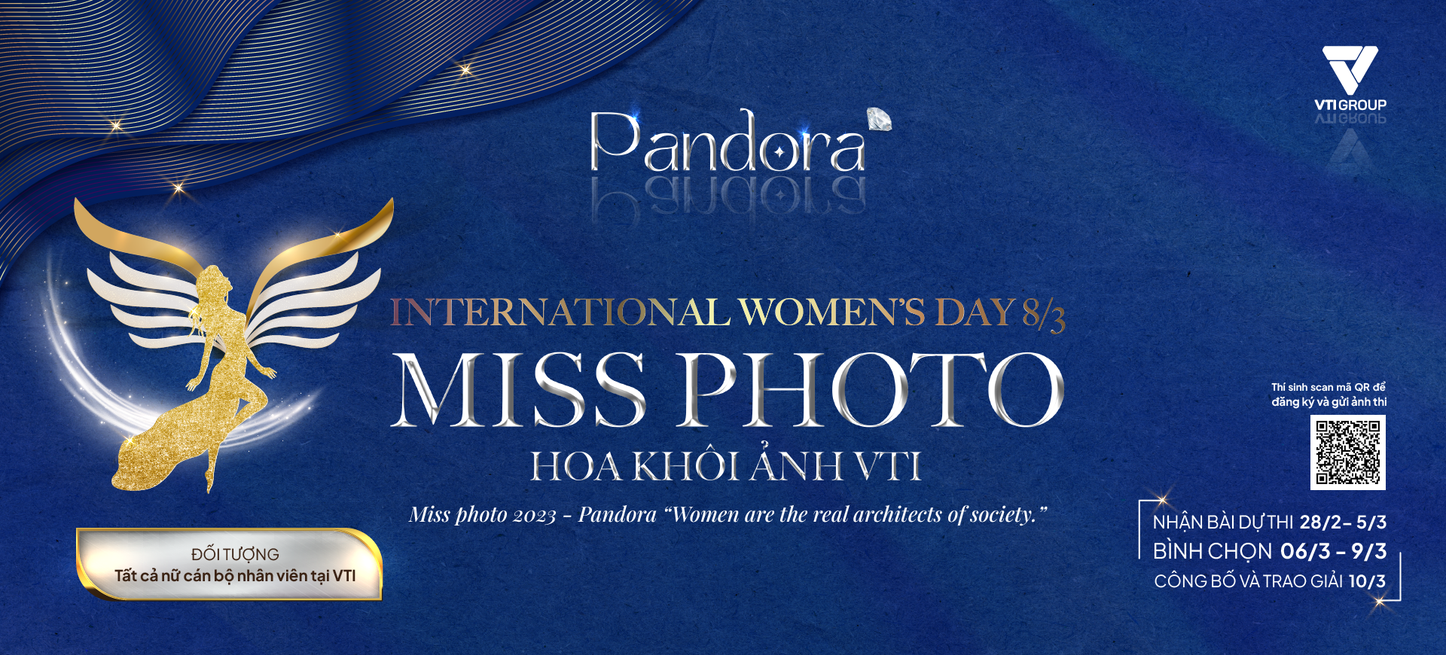
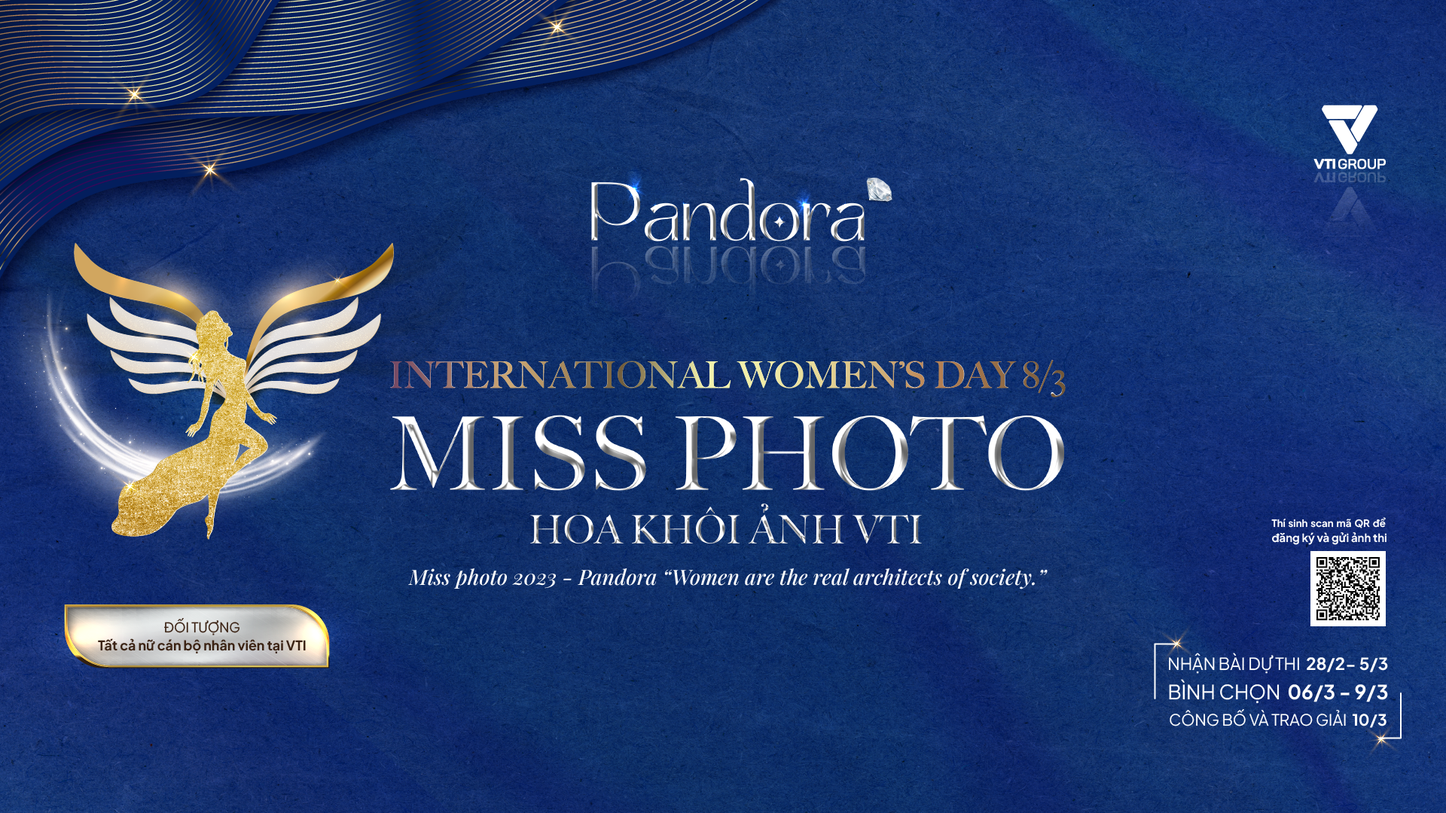
done

diff --git a/src/image/logo.jsx b/src/image/logo.jsx
@@ -3,268 +3,11 @@ import React, { Component } from "react";
 export default class Logo extends Component {
   render() {
     return (
-      <svg
-        version="1.1"
-        id="Layer_1"
-        x="0px"
-        y="0px"
-        width="170pt"
-        height="170pt"
-        viewBox="0 0 648 604"
-        enableBackground="new 0 0 648 604"
-        xmlns="http://www.w3.org/2000/svg"
-      >
-        <defs></defs>
-        <path
-          fill="#0252AD"
-          opacity="1.000000"
-          stroke="none"
-          d="
-      M382.493835,148.509613 
-          C373.827240,163.520538 365.250671,178.162323 356.947388,192.957520 
-          C354.549286,197.230576 351.602234,198.989227 346.581268,198.975555 
-          C290.421722,198.822723 234.261475,198.837479 178.101791,198.970642 
-          C173.339890,198.981934 170.456253,197.406647 168.107285,193.243576 
-          C158.135941,175.571518 147.752060,158.131012 137.905457,140.391342 
-          C136.646744,138.123642 136.709106,134.167282 137.806564,131.737000 
-          C140.463669,125.852989 144.150284,120.439911 147.308990,114.774048 
-          C149.102432,111.557114 151.521713,110.106537 155.357620,110.109756 
-          C234.181458,110.175880 313.005371,110.128479 391.829285,110.144836 
-          C399.370697,110.146400 401.879242,114.674522 398.100525,121.361931 
-          C393.025757,130.343063 387.831085,139.256424 382.493835,148.509613 
-      z"
-        ></path>
-        <path
-          fill="#0591E7"
-          opacity="1.000000"
-          stroke="none"
-          d="
-      M500.457581,133.775604 
-          C500.047577,136.444550 499.953613,139.056717 498.801941,141.061157 
-          C470.028168,191.141022 441.145599,241.158340 412.275696,291.182953 
-          C402.042969,308.913879 391.831604,326.657379 381.532959,344.350037 
-          C377.131165,351.912170 372.281586,351.923431 367.961823,344.454834 
-          C354.129089,320.539062 340.369476,296.580872 326.492920,272.690613 
-          C324.520569,269.295044 324.453339,266.258850 326.412048,262.865753 
-          C354.867737,213.571854 383.297272,164.262787 411.650177,114.909744 
-          C413.633362,111.457657 416.163605,110.071449 420.110504,110.094986 
-          C440.434387,110.216164 460.759888,110.224754 481.083679,110.096611 
-          C485.242401,110.070381 487.954529,111.524048 489.919556,115.205757 
-          C493.209412,121.369865 496.810608,127.367798 500.457581,133.775604 
-      z"
-        ></path>
-        <path
-          fill="#026BC6"
-          opacity="1.000000"
-          stroke="none"
-          d="
-      M266.846558,364.162720 
-          C238.797714,315.584412 210.924149,267.327728 183.073029,219.058090 
-          C179.450180,212.779221 182.047211,208.139359 189.247650,208.127762 
-          C217.234314,208.082687 245.221756,208.206207 273.207153,208.012604 
-          C277.879578,207.980270 280.067261,210.345673 282.087646,213.862762 
-          C299.820923,244.733032 317.601135,275.576324 335.387543,306.416046 
-          C345.360229,323.707703 355.222382,341.066162 365.456238,358.202240 
-          C368.464111,363.238892 368.649139,367.314575 365.579254,372.444183 
-          C355.756348,388.857483 346.301331,405.493530 336.887024,422.146881 
-          C334.586578,426.216248 331.806488,428.271576 326.930481,427.953613 
-          C321.124512,427.574982 315.267120,427.674622 309.447266,427.923706 
-          C305.266815,428.102631 302.679260,426.509247 300.615509,422.879120 
-          C289.517334,403.357483 278.242584,383.936249 266.846558,364.162720 
-      z"
-        ></path>
-        <path
-          fill="#0F93E4"
-          opacity="1.000000"
-          stroke="none"
-          d="
-      M359.553833,488.226929 
-          C356.791840,491.302948 354.220551,494.039520 352.280579,496.104218 
-          C355.894714,505.247498 359.614990,514.659363 363.347412,524.101868 
-          C354.562500,527.171082 352.066864,525.999756 349.702423,518.252319 
-          C344.096710,499.884430 344.096680,499.882629 324.877808,500.138031 
-          C323.742920,500.153107 322.608917,500.232971 320.853210,500.309906 
-          C320.853210,508.620972 320.853210,516.677979 320.853210,524.998108 
-          C316.967163,524.998108 313.718536,524.998108 310.313538,524.998108 
-          C310.313538,503.444031 310.313538,482.194580 310.313538,460.951813 
-          C323.051727,460.951813 335.532562,460.329346 347.913025,461.175446 
-          C355.877808,461.719788 360.504272,467.978943 360.688477,475.999817 
-          C360.779266,479.953064 360.084076,483.924347 359.553833,488.226929 
-      M343.555908,490.635834 
-          C349.408813,488.026184 352.431030,478.196686 348.807587,472.931549 
-          C347.947296,471.681458 346.238403,470.274933 344.878326,470.231232 
-          C336.956757,469.976440 329.022797,470.106415 321.055847,470.106415 
-          C321.055847,477.249054 321.055847,483.835022 321.055847,490.814697 
-          C328.471741,490.814697 335.593353,490.814697 343.555908,490.635834 
-      z"
-        ></path>
-        <path
-          fill="#0753AC"
-          opacity="1.000000"
-          stroke="none"
-          d="
-      M133.565079,507.610779 
-          C132.020325,511.163971 130.244751,514.272705 129.382706,517.616882 
-          C128.133362,522.463501 125.171417,523.047974 120.680450,523.449280 
-          C113.675697,524.075378 110.586578,521.417358 108.034912,515.044250 
-          C101.428635,498.544189 93.929176,482.401978 86.805183,466.108643 
-          C86.100296,464.496490 85.525330,462.827576 84.447372,460.040344 
-          C90.259544,460.040344 95.164619,459.825073 100.021881,460.211212 
-          C101.067719,460.294342 102.260269,462.415680 102.843178,463.822723 
-          C107.424286,474.880798 111.865425,485.996826 116.372276,497.085846 
-          C117.045380,498.741943 117.836380,500.350189 119.071564,503.084686 
-          C122.585365,494.787750 125.714745,487.409180 128.835205,480.026855 
-          C131.165268,474.514435 133.694122,469.072998 135.721466,463.451050 
-          C136.782562,460.508545 138.446579,459.763092 141.283234,459.914307 
-          C144.866837,460.105286 148.468323,459.960419 153.413544,459.960419 
-          C146.550400,476.467072 140.146454,491.869263 133.565079,507.610779 
-      z"
-        ></path>
-        <path
-          fill="#0E92E4"
-          opacity="1.000000"
-          stroke="none"
-          d="
-      M256.916077,475.198792 
-          C256.114532,478.273956 255.056091,480.977936 254.943130,483.720886 
-          C254.682968,490.037445 254.704483,496.379578 254.938889,502.699188 
-          C255.255219,511.227692 260.102295,515.760803 268.588226,515.860413 
-          C270.752838,515.885864 272.918060,515.883362 275.082794,515.867737 
-          C285.119812,515.795166 289.882202,510.457001 288.911407,499.668823 
-          C283.452789,499.668823 277.902039,499.668823 271.979828,499.668823 
-          C271.979828,496.157776 271.979828,493.290405 271.979828,490.232544 
-          C281.257721,490.232544 290.205963,490.232544 300.435272,490.232544 
-          C299.790100,497.326111 299.990173,504.369659 298.341919,510.950256 
-          C296.197388,519.511963 288.119904,524.868042 279.252380,525.135559 
-          C274.926422,525.266052 270.592834,525.225708 266.264069,525.164001 
-          C254.039612,524.989868 245.276794,517.326111 244.337769,505.076111 
-          C243.703537,496.802185 243.732361,488.406036 244.325455,480.126221 
-          C245.194672,467.992004 254.030258,460.134308 266.188202,459.898560 
-          C271.013916,459.804962 275.863892,459.695557 280.668762,460.052307 
-          C291.615784,460.865204 299.242218,469.507874 298.973907,480.843597 
-          C295.766571,480.843597 292.542419,480.843597 289.121521,480.843597 
-          C288.000641,475.108551 285.641479,469.888611 279.055511,469.566833 
-          C271.360352,469.190826 262.827301,466.601288 256.916077,475.198792 
-      z"
-        ></path>
-        <path
-          fill="#0D92E4"
-          opacity="1.000000"
-          stroke="none"
-          d="
-      M373.900024,517.013428 
-          C372.094849,511.232483 369.572388,505.819489 369.141022,500.244659 
-          C368.543945,492.528076 368.745941,484.561279 370.011780,476.934967 
-          C371.730835,466.578400 380.004303,460.307098 390.521210,459.954315 
-          C394.840759,459.809418 399.171295,459.824097 403.492584,459.934204 
-          C413.999878,460.201935 422.831329,465.761200 424.166168,475.916931 
-          C425.634460,487.088379 425.313843,498.745087 423.927826,509.962402 
-          C422.821198,518.918030 415.325684,523.692993 406.641144,524.847961 
-          C400.434753,525.673462 393.820465,525.982849 387.779053,524.692444 
-          C382.920471,523.654724 378.647949,519.873291 373.900024,517.013428 
-      M412.629700,475.135040 
-          C407.898651,467.542419 400.253571,469.249878 393.273346,469.256378 
-          C385.366913,469.263702 380.410736,473.905518 380.039459,481.807434 
-          C379.704468,488.938141 379.747223,496.105072 380.022156,503.240692 
-          C380.292908,510.267914 384.792694,515.037537 391.224579,515.817688 
-          C404.378174,517.413208 411.181488,514.839478 413.816467,507.269409 
-          C413.870880,507.113007 413.918365,506.950806 413.941315,506.787415 
-          C415.398865,496.411011 416.445709,486.046875 412.629700,475.135040 
-      z"
-        ></path>
-        <path
-          fill="#0F92E4"
-          opacity="1.000000"
-          stroke="none"
-          d="
-      M525.992493,459.863953 
-          C530.152466,459.912201 533.833862,459.735962 537.472046,460.054077 
-          C545.671692,460.770996 551.559814,467.087097 551.837280,475.244232 
-          C551.939148,478.238129 551.882385,481.238129 551.866272,484.235168 
-          C551.807922,495.124481 545.159241,501.912323 534.185730,502.141296 
-          C527.196777,502.287079 520.203918,502.244202 513.213135,502.313293 
-          C512.926758,502.316132 512.643066,502.599091 511.852448,503.022156 
-          C511.852448,506.370850 511.852417,509.992188 511.852417,513.613525 
-          C511.852417,517.243469 511.852448,520.873413 511.852448,524.841064 
-          C508.155304,524.841064 504.946564,524.841064 501.444122,524.841064 
-          C501.444122,503.237213 501.444122,481.853088 501.444122,459.863831 
-          C509.618500,459.863831 517.556396,459.863831 525.992493,459.863953 
-      M534.697388,492.766754 
-          C541.138245,490.078857 544.138672,476.587433 539.288696,471.534882 
-          C538.218262,470.419769 536.474609,469.356049 535.010498,469.313507 
-          C527.424683,469.092712 519.829041,469.210815 512.170349,469.210815 
-          C512.170349,477.348450 512.170349,484.900879 512.170349,492.872131 
-          C519.616150,492.872131 526.728271,492.872131 534.697388,492.766754 
-      z"
-        ></path>
-        <path
-          fill="#0D92E5"
-          opacity="1.000000"
-          stroke="none"
-          d="
-      M478.412994,473.014465 
-          C478.413208,468.546204 478.413208,464.575195 478.413208,460.233643 
-          C482.019135,460.233643 485.221832,460.233643 489.077698,460.233643 
-          C489.077698,466.270752 489.083344,472.208191 489.076355,478.145599 
-          C489.066193,486.803162 489.219940,495.465302 488.990875,504.117218 
-          C488.649506,517.010437 480.240509,525.185913 467.360657,525.119629 
-          C461.579254,525.089905 455.624817,525.222290 450.062469,523.930725 
-          C441.736572,521.997498 436.682312,515.581055 436.295380,507.418976 
-          C435.556763,491.836761 436.080933,476.194702 436.080933,460.220459 
-          C439.524261,460.220459 442.750122,460.220459 446.614838,460.220459 
-          C446.614838,463.108368 446.615509,465.895538 446.614716,468.682678 
-          C446.611603,479.837891 446.531647,490.993805 446.627655,502.148132 
-          C446.710938,511.825256 450.801239,515.834167 460.305634,515.874634 
-          C475.646271,515.939941 478.399597,513.222290 478.410828,497.986755 
-          C478.416809,489.828400 478.412445,481.670074 478.412994,473.014465 
-      z"
-        ></path>
-        <path
-          fill="#0A54AE"
-          opacity="1.000000"
-          stroke="none"
-          d="
-      M171.007462,459.951843 
-          C181.168655,459.953796 190.833313,460.072845 200.492462,459.894379 
-          C203.882278,459.831787 205.208282,460.728424 205.097031,464.361877 
-          C204.786087,474.515625 206.059814,472.729736 196.633987,472.898499 
-          C192.988144,472.963806 189.340164,472.909149 184.986343,472.909149 
-          C184.986343,474.948761 184.986298,476.707733 184.986359,478.466675 
-          C184.986847,491.960846 184.899185,505.455994 185.051193,518.948425 
-          C185.088226,522.235901 184.023117,523.197571 180.762070,523.227112 
-          C169.248581,523.331360 169.250198,523.450439 169.250748,512.183838 
-          C169.251358,499.361359 169.250885,486.538849 169.250885,472.824432 
-          C163.530197,472.824432 158.043060,472.824432 151.410065,472.824432 
-          C153.197571,468.364258 154.335373,464.960724 155.960373,461.808289 
-          C156.459732,460.839569 158.263855,460.124023 159.518738,460.043457 
-          C163.169006,459.809143 166.843658,459.955078 171.007462,459.951843 
-      z"
-        ></path>
-        <path
-          fill="#0350AC"
-          opacity="1.000000"
-          stroke="none"
-          d="
-      M208.875031,460.669891 
-          C213.115280,460.451385 217.359039,460.067291 221.592804,460.156555 
-          C222.422043,460.174011 223.910278,462.019287 223.917755,463.030243 
-          C224.058624,482.113434 224.067383,501.198334 223.894043,520.281006 
-          C223.885071,521.268188 222.037216,523.032776 220.989487,523.075989 
-          C216.890152,523.244812 212.768326,522.867371 208.702652,521.984924 
-          C208.791962,501.074585 208.833496,480.872223 208.875031,460.669891 
-      z"
-        ></path>
-        <path
-          fill="#0B4996"
-          opacity="1.000000"
-          stroke="none"
-          d="
-      M208.528809,460.955322 
-          C208.833496,480.872223 208.791962,501.074585 208.515152,521.609802 
-          C208.247437,501.708710 208.214996,481.474762 208.528809,460.955322 
-      z"
-        ></path>
-      </svg>
+      <img
+        height={160}
+        width={250}
+        src={window.location.origin + "/image/logo.png"}
+      ></img>
     );
   }
 }

diff --git a/public/index.html b/public/index.html
@@ -7,6 +7,10 @@
   <meta name="viewport" content="width=device-width, initial-scale=1" />
   <meta name="theme-color" content="#000000" />
   <meta name="description" content="Web site created using create-react-app" />
+  <meta http-equiv='cache-control' content='no-cache'>
+  <meta http-equiv='expires' content='0'>
+  <meta http-equiv='pragma' content='no-cache'>
+
   <link rel="apple-touch-icon" href="%PUBLIC_URL%/logo192.png" />
   <!--
       manifest.json provides metadata used when your web app is installed on a
@@ -20,6 +24,7 @@
   <link rel="preconnect" href="https://fonts.gstatic.com" crossorigin>
   <link href="https://fonts.googleapis.com/css2?family=Open+Sans:wght@700;800&display=swap" rel="stylesheet">
   <link href="https://fonts.googleapis.com/css2?family=Open+Sans:wght@700;800&display=swap" rel="stylesheet">
+
   <!--
       Notice the use of %PUBLIC_URL% in the tags above.
       It will be replaced with the URL of the `public` folder during the build.

diff --git a/src/Component/TimeCountdown/index.jsx b/src/Component/TimeCountdown/index.jsx
@@ -20,7 +20,7 @@ export default function TimeCountdown() {
           <div
             className="btn-open-form center"
             onClick={() => {
-              window.open("https://forms.gle/Nx5Bm7n6zfYanS5M9", "_blank");
+              window.open("https://forms.gle/8zGBD1QyrkJt9ynp7", "_blank");
             }}
           >
             <span>CALL TO ACTION</span>

diff --git a/src/Component/Sponsors/index.jsx b/src/Component/Sponsors/index.jsx
@@ -8,8 +8,10 @@ export default function Sponsor() {
     <div className="sponsor-container center">
       <div className="description">Sponsors</div>
       <div className="animation-element slide-left">
-        <Logo />
-        <LogoVbs />
+        <div className="center">
+          <Logo />
+          <LogoVbs />
+        </div>
       </div>
     </div>
   );

diff --git a/src/Component/ListImage/index.jsx b/src/Component/ListImage/index.jsx
@@ -29,7 +29,7 @@ export default function ListImage() {
               }
               alt={item}
               onClick={() => {
-                window.open("https://forms.gle/Nx5Bm7n6zfYanS5M9", "_blank");
+                window.open("https://forms.gle/8zGBD1QyrkJt9ynp7", "_blank");
               }}
             />
           </div>

diff --git a/src/image/logo-vbs.jsx b/src/image/logo-vbs.jsx
@@ -6,7 +6,7 @@ export default class LogoVbs extends Component {
       <img
         // height={160}
         // width={160}
-        src={window.location.origin + "/image/vbs.png"}
+        src={window.location.origin + "/image/logo-vbs.png"}
       ></img>
     );
   }

diff --git a/src/App.css b/src/App.css
@@ -36,7 +36,7 @@
 
 .banner {
   width: 100vw;
-  height: 80vh;
+  height: 100vh;
 }
 .banner img {
   height: 100%;
